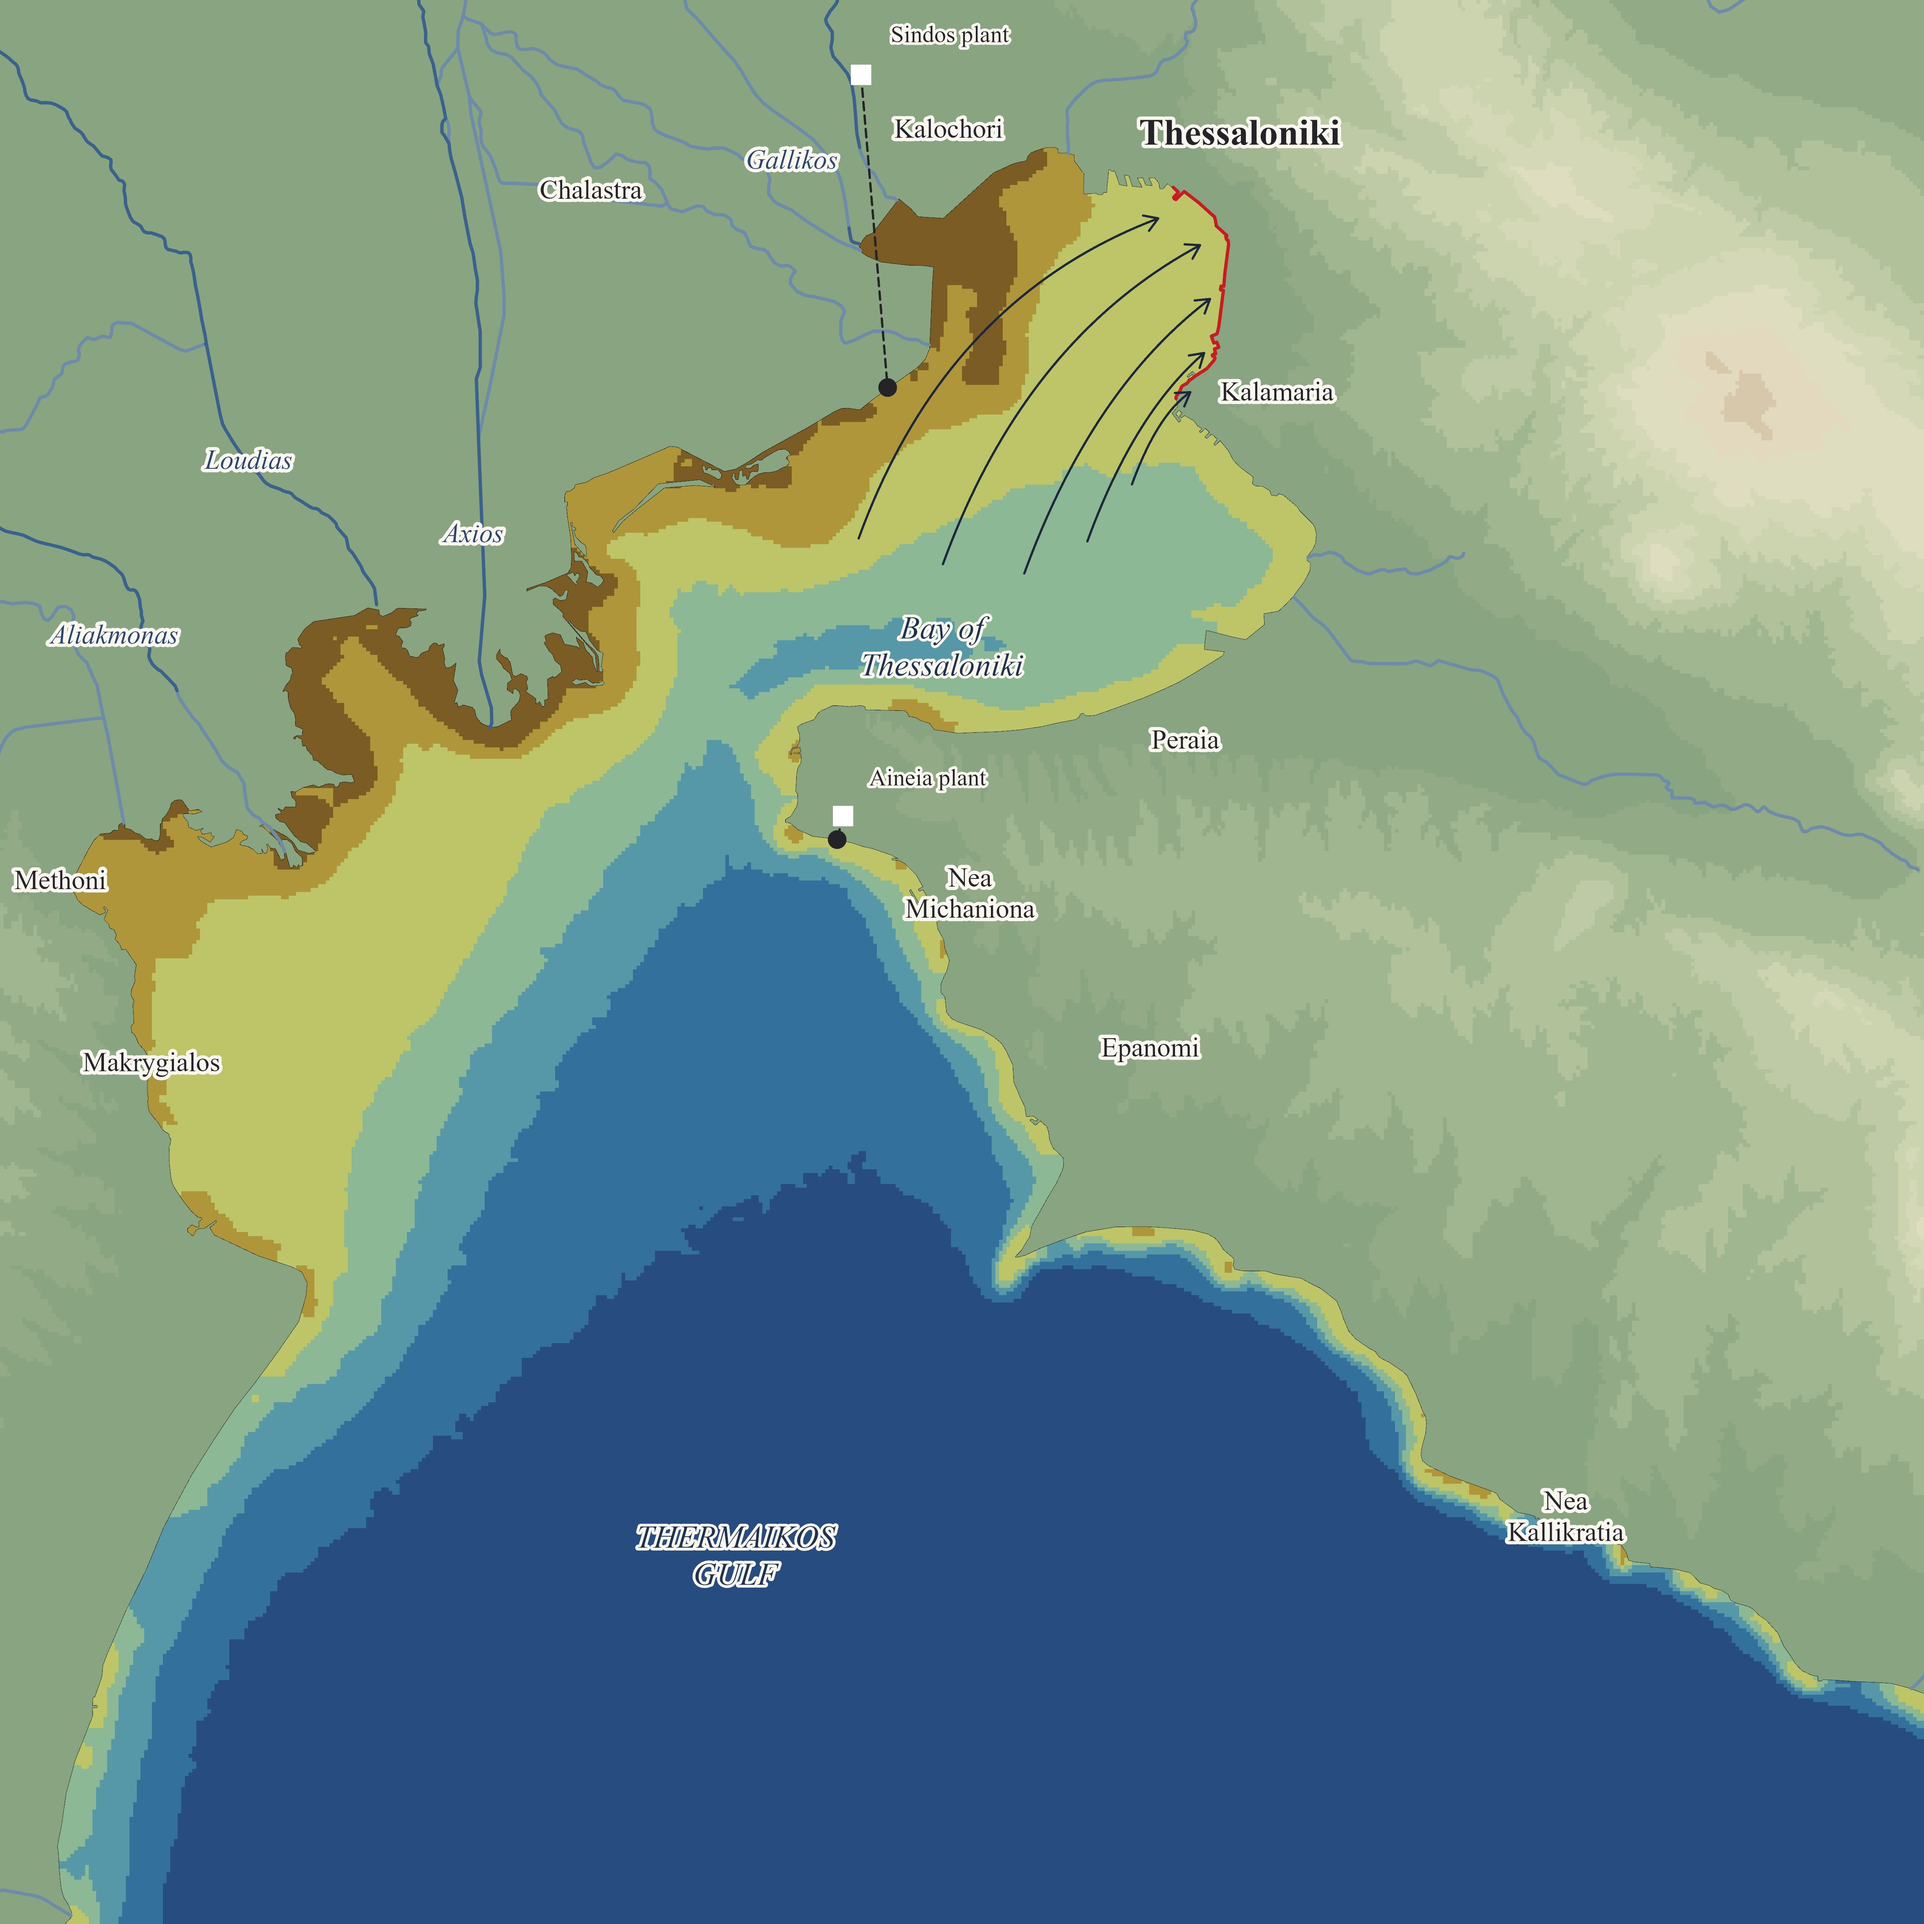
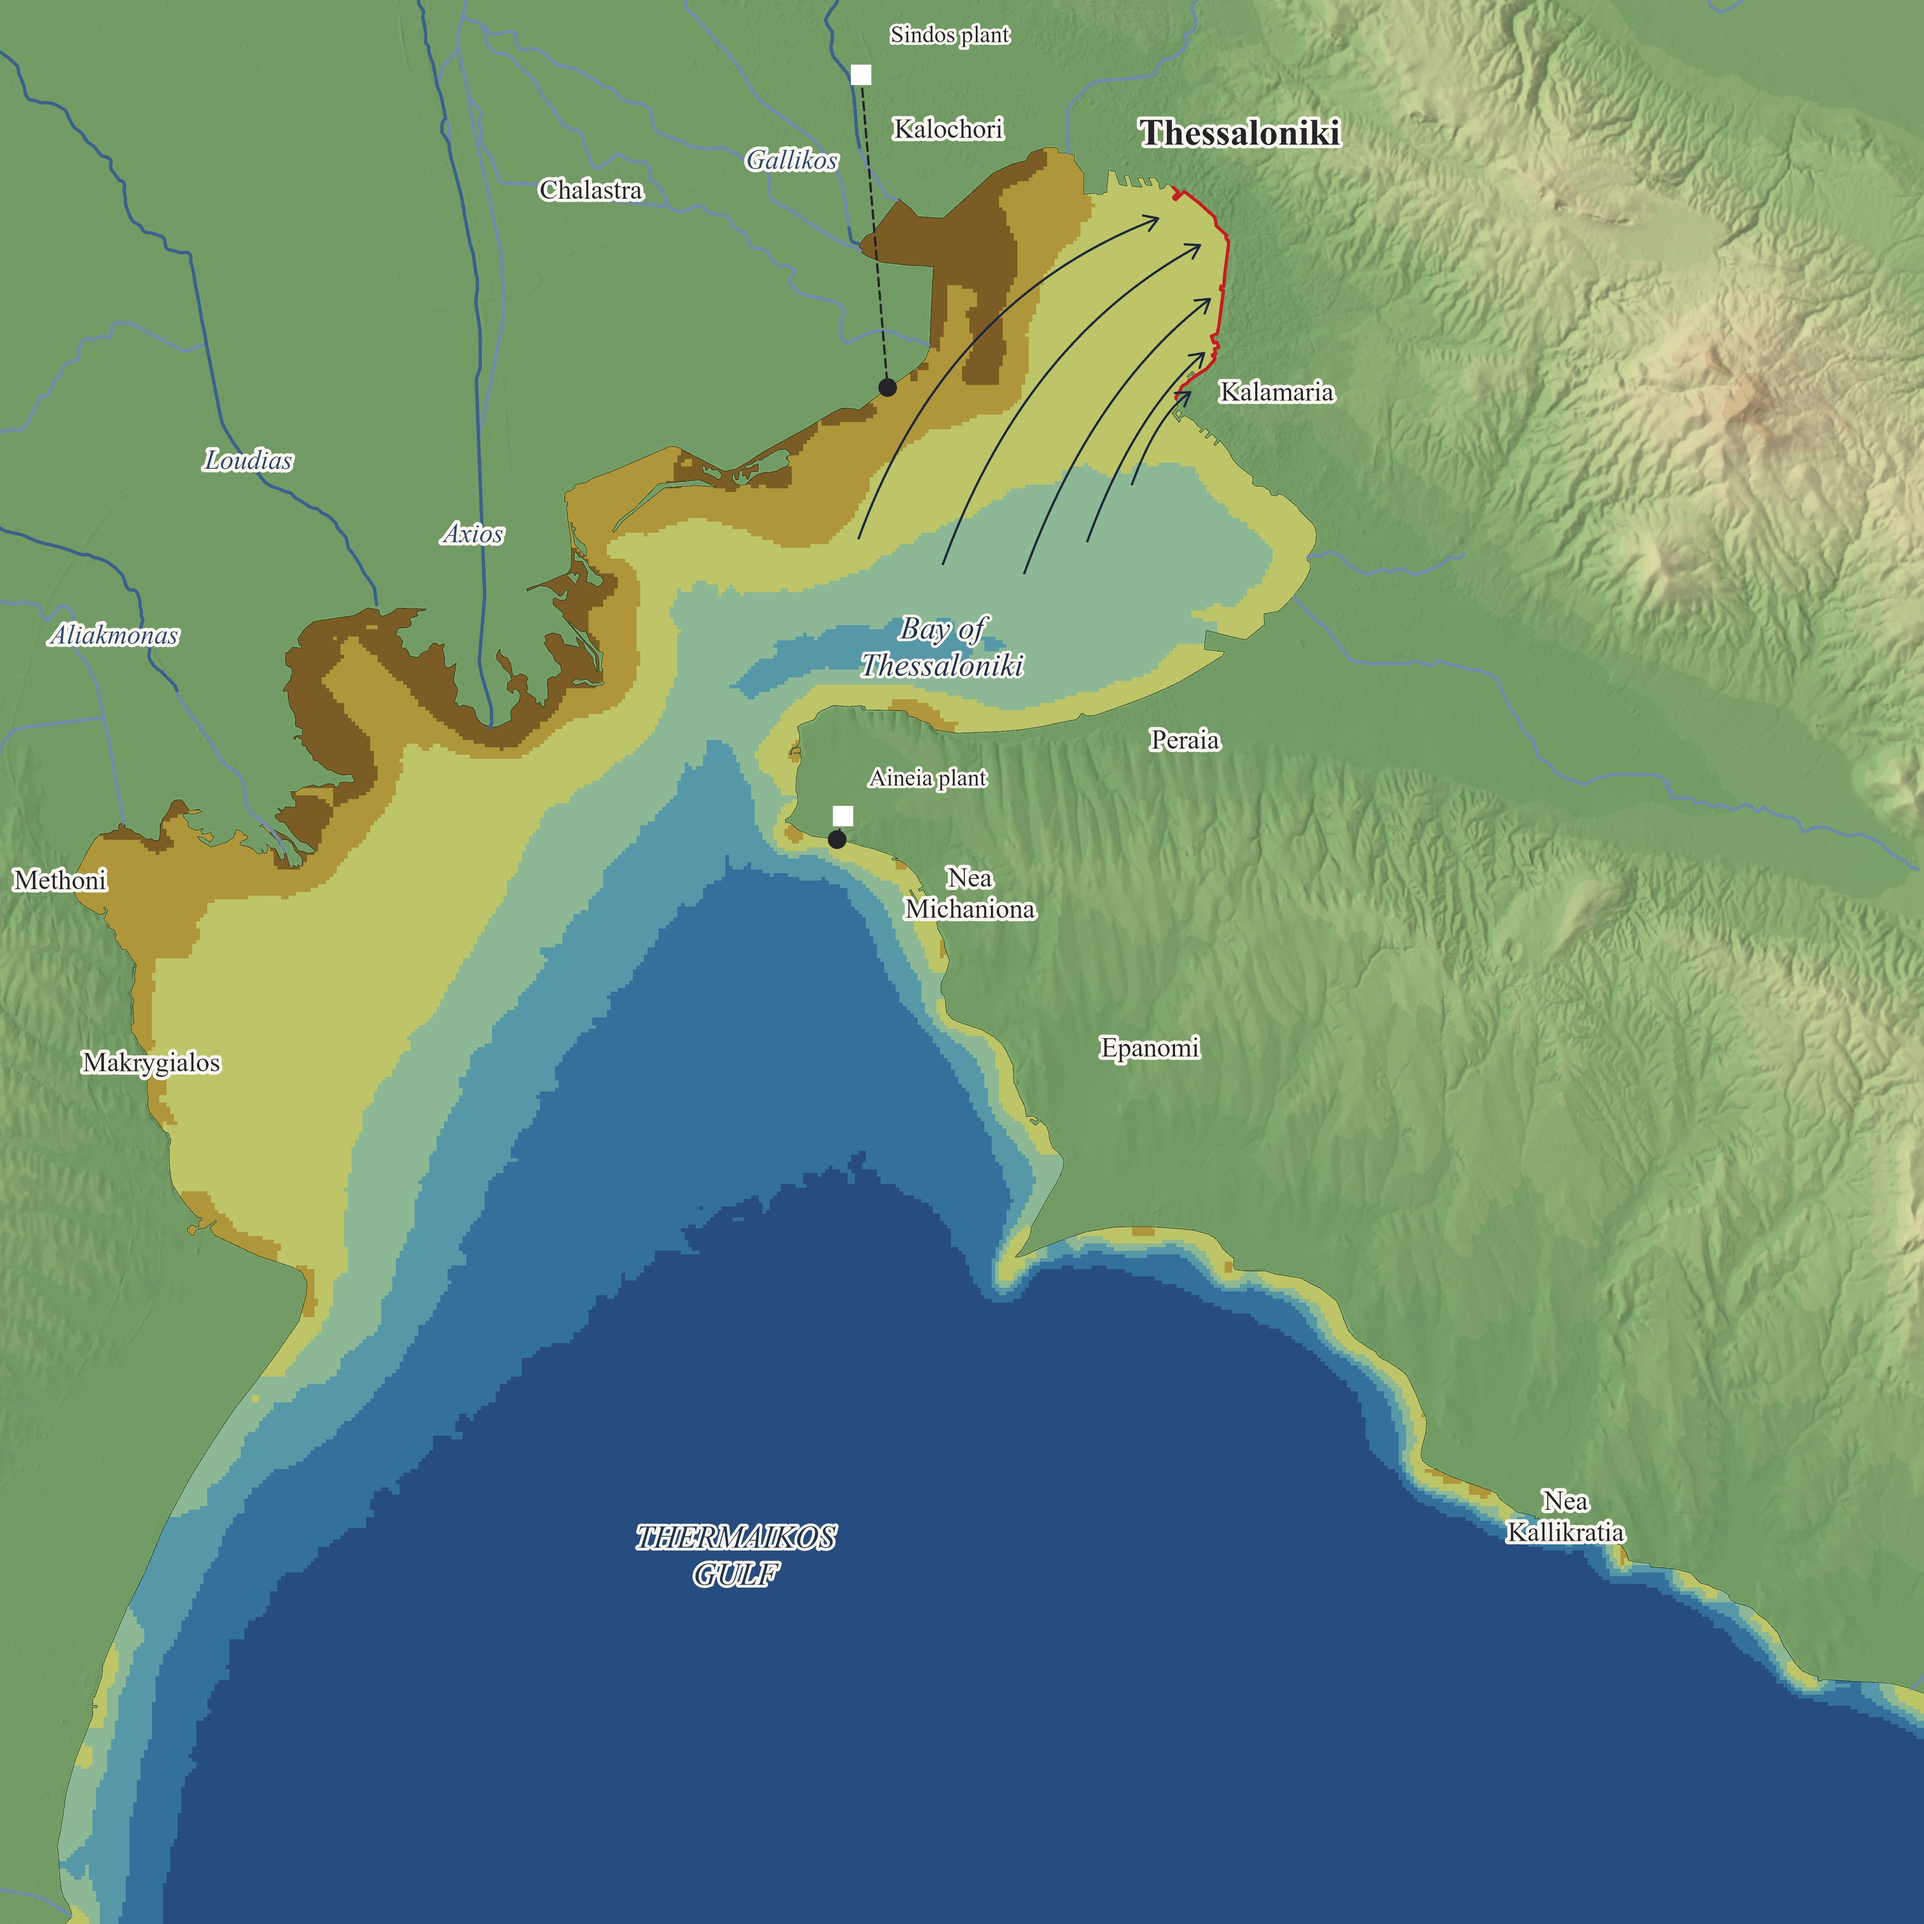
Day 19: land relief and hillshade from Copernicus GLO-30, styled as Day 12

diff --git a/src/content/projects/30dmc-2026-day-19-smell.md b/src/content/projects/30dmc-2026-day-19-smell.md
@@ -22,15 +22,15 @@ dataSource:
     href: 'https://doi.org/10.2909/393359a7-7ebd-4a52-80ac-1a18d5f3db9c'
   - label: 'Hellenic Statistical Authority (ELSTAT) - coast'
     href: 'https://www.statistics.gr/en/digital-cartographical-data'
-  - label: 'Copernicus DEM GLO-90 - elevation'
+  - label: 'Copernicus DEM GLO-30 - elevation and hillshade'
     href: 'https://dataspace.copernicus.eu/explore-data/data-collections/copernicus-contributing-missions/collections-description/COP-DEM'
 downloads:
   - label: 'Full-resolution map'
     href: '/downloads/30dmc-2026-day-19-map.jpg'
-    note: 'JPEG · 7016 × 4961 · 2.0 MB'
+    note: 'JPEG · 7016 × 4961 · 2.6 MB'
   - label: 'Square map'
     href: '/downloads/30dmc-2026-day-19-map-square.jpg'
-    note: 'JPEG · 4724 × 4724 · 0.8 MB'
+    note: 'JPEG · 4724 × 4724 · 1.3 MB'
 map: '/data/30dmc-2026-day-19-smell.json'
 mapComponent: 'smell-map'
 mapCaption: 'Choose ten summers, a month, or a single day of 2026; on a day, the arrow shows that afternoon''s wind over the bay. Click the sea for the chlorophyll at a spot. Chlorophyll is measured from space and shows algae, not smell.'
